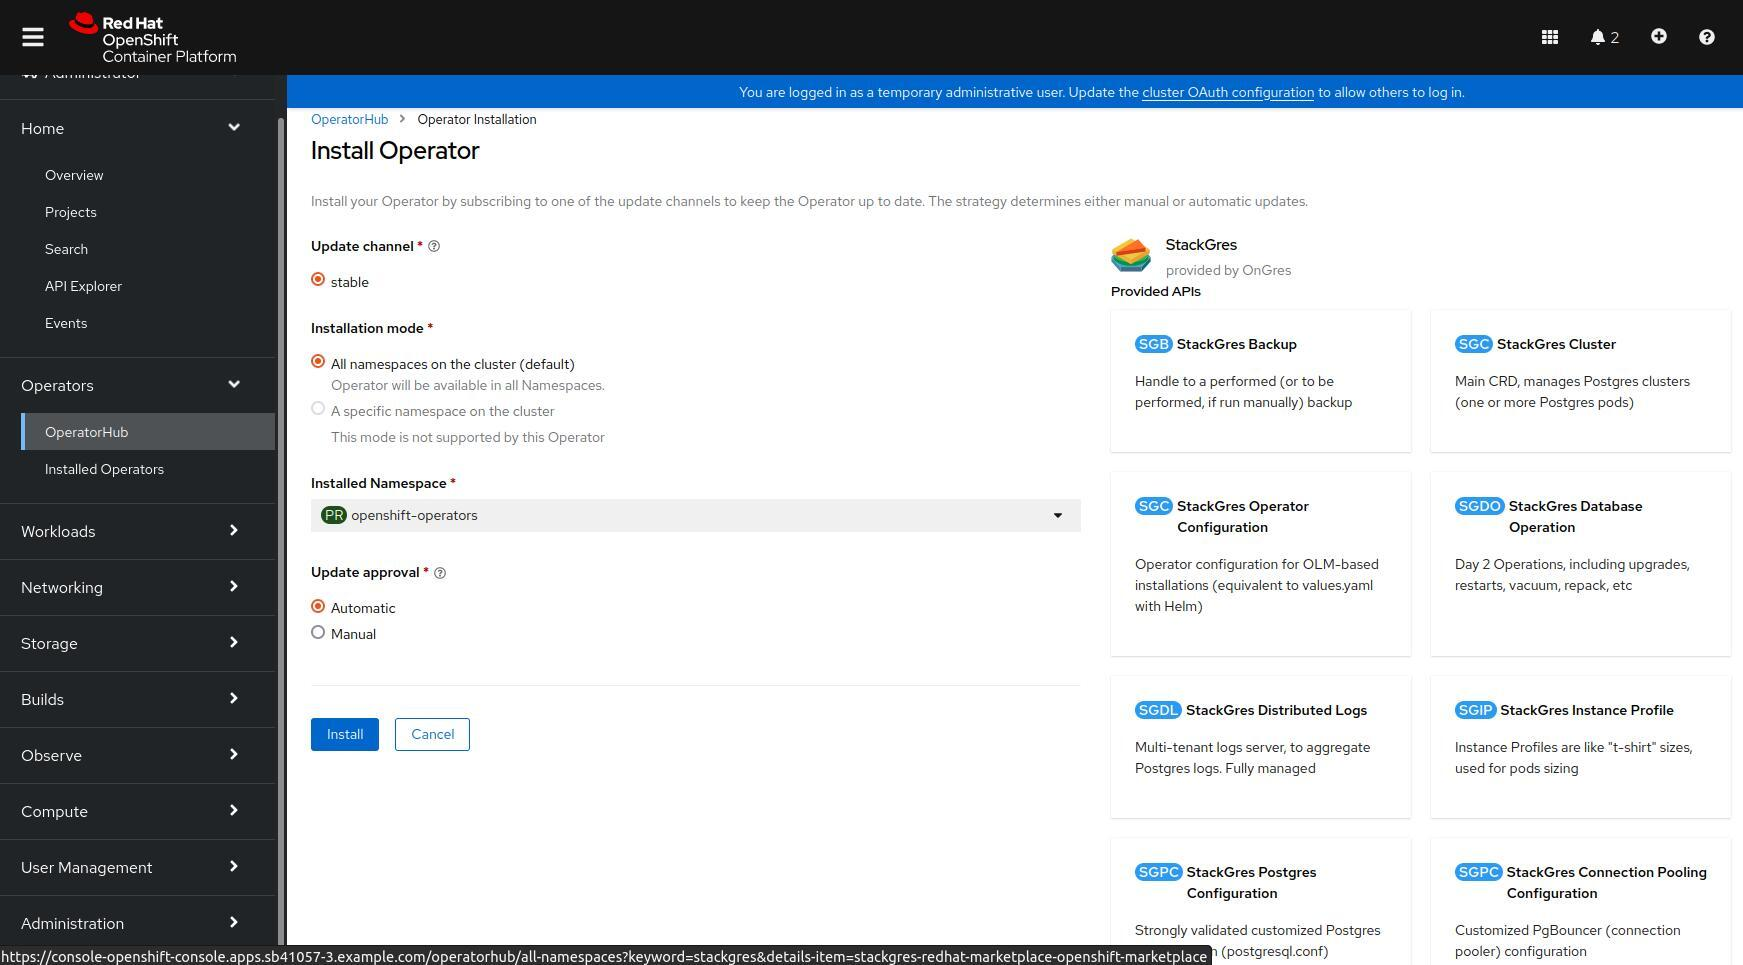
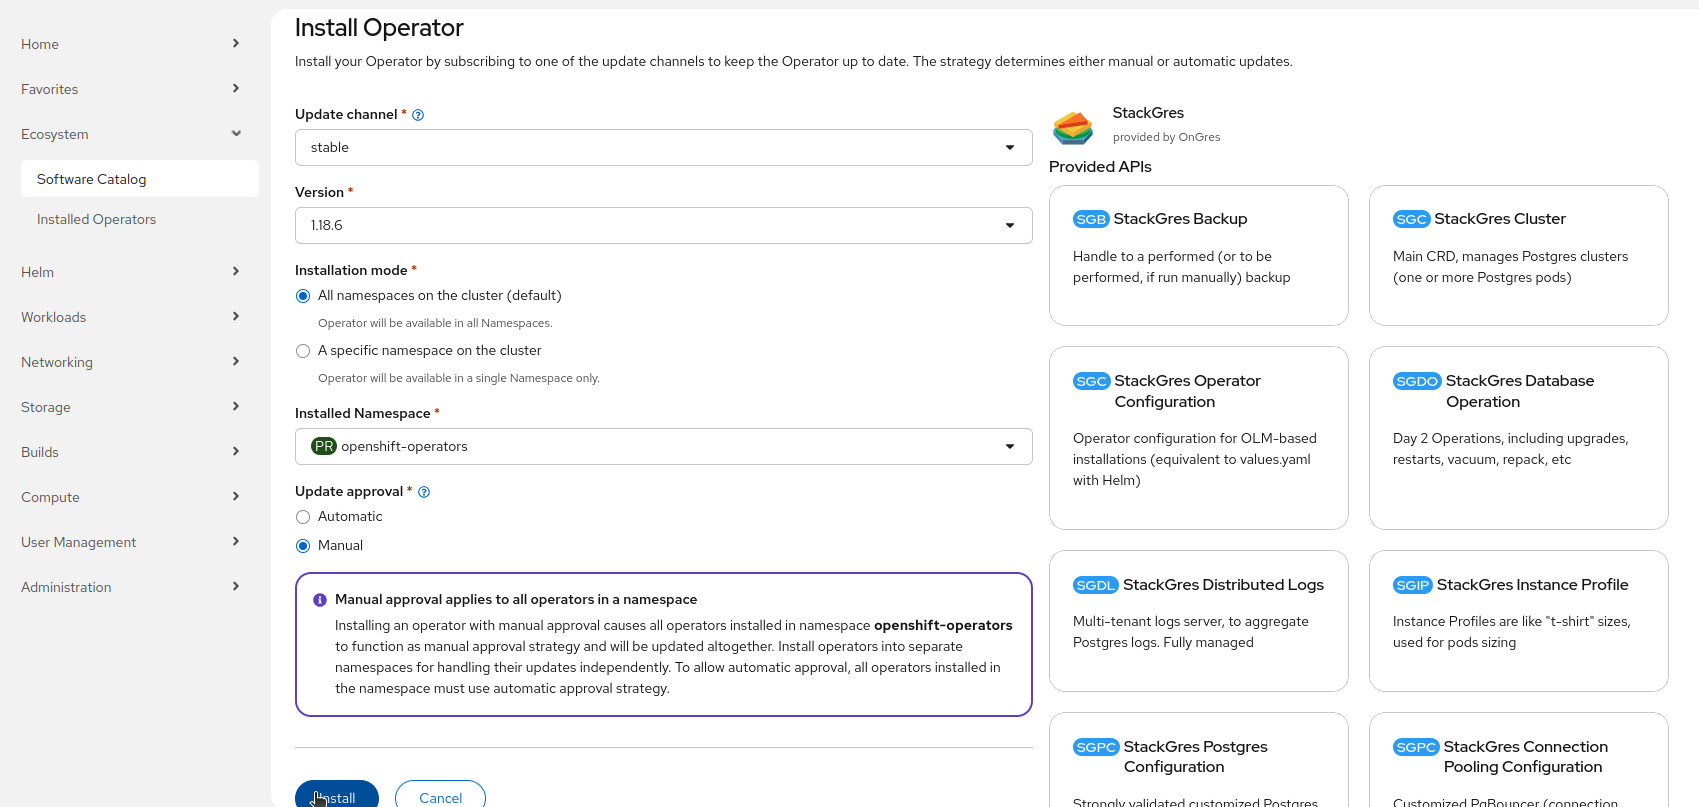
doc: improve OpenShift install, upgrade and uninstall sections

diff --git a/doc/content/en/04-administration-guide/01-installation/03-installation-via-operatorhub/_index.md b/doc/content/en/04-administration-guide/01-installation/03-installation-via-operatorhub/_index.md
@@ -120,7 +120,7 @@ EOF
 > 3. Then use the default setting and click on the "Install" button
      >     ![Search the StackGres Operator from the OperatorHub tab](operator-hub-openshift-install-3.jpeg)
 
-To proceed with the installation you will have to patch the `InstallPlan` that has been created by the OLM operator:
+To proceed with the installation follow the same steps as already explained in the [Installation via OperatorHub](#installation-via-operatorhub) but replacing the namespace with `openshift-operators`:
 
 ```
 kubectl get -n openshift-operators installplan -o name \
@@ -166,4 +166,48 @@ EOF
 ```
 kubectl get service -n openshift-operators stackgres-restapi --template '{{ (index .spec.ports 0).nodePort }}{{ printf "\n" }}'
 ```
+
+#### Installation via OpenShift Web Console
+
+Alternatively you may install the StackGres Operator from the OpenShift Web Console by following these steps:
+
+1. Search the StackGres Operator from the OperatorHub tab
+
+>     ![Search the StackGres Operator from the OperatorHub tab](operator-hub-openshift-install.jpeg)
+
+2. After selecting it click on the "Install" button
+
+>     ![Search the StackGres Operator from the OperatorHub tab](operator-hub-openshift-install-2.jpeg)
+
+3. Then use the All namespaces or specific namespace installation mode (depending on your requirements), set the manual update approval option and click on the "Install" button
+
+>     ![Search the StackGres Operator from the OperatorHub tab](operator-hub-openshift-install-3.jpeg)
+
+4. Accept the installation plan by clicking on the "Approve" button
+
+>     ![Search the StackGres Operator from the OperatorHub tab](operator-hub-openshift-install-4.jpeg)
+
+5. Optionally configure the Subscription by cliking on the "Edit Subscription" button and editing the YAML in the editor that will appear:
+
+>     ![Search the StackGres Operator from the OperatorHub tab](operator-hub-openshift-install-5.jpeg)
+
+## Migrate from global to scoped installation
+
+When installing the operator you may chose to [install it globally or scoped to a set of namespaces](https://olm.operatorframework.io/docs/advanced-tasks/operator-scoping-with-operatorgroups) using OperatorGroup.
+
+In some cases you may need to migrate from a global operator installation to a scoped operator installation. The operation is as easy as uninstalling the global operator and re-installing it as a scoped operator. Before proceeding make sure to create a backup of the Subscription YAML in order to be able to recover the `config` section when re-installing it.
+
+> **IMPORTANT** If the namespace of the scoped operator installation changed you MUST also remove the `SGConfig` resource present in the namespace of the global operator before the uninstallation of the global operator.
+
+### Migrate from global to scoped installation on OpenShift 4.x
+
+Follow the same steps as explained in the [Migrate from global to scoped installation section](#migrate-from-global-to-scoped-installation).
+
+### Migrate from global to scoped installation via OpenShift Web Console
+
+1. From the OpenShift Web Console make sure that during uninstalling the global operator you do NOT check the box for "Delete all operand instances for this operator":
+
+>     ![Do NOT select "Delete all operand instances for this operator"](operator-hub-openshift-migration-global-scoped-uninstall-detail.jpeg)
+
+> **IMPORTANT** If the namespace of the scoped operator installation changed you MUST also remove the `SGConfig` resource present in the namespace of the global operator before the uninstallation of the global operator.
 

diff --git a/doc/content/en/04-administration-guide/16-upgrade/02-upgrade-via-operatorhub/_index.md b/doc/content/en/04-administration-guide/16-upgrade/02-upgrade-via-operatorhub/_index.md
@@ -36,3 +36,19 @@ Upgrading an operator serves two purposes:
 * Operator upgrade: to upgrade to another version of the operator
 
 After upgrading the operator have a look at the [following steps]({{% relref "16-upgrade#following-steps-after-operator-upgrade" %}}).
+
+#### Upgrade via OpenShift Web Console
+
+Alternatively you may install the StackGres Operator from the OpenShift Web Console by following these steps:
+
+1. Search the StackGres Operator from the OperatorHub tab and click on the "upgrade available" link:
+
+>     ![Search the StackGres Operator from the OperatorHub tab](operator-hub-openshift-upgrade.jpeg)
+
+2. Click on the "Preview InstallPlan" button
+
+>     ![Search the StackGres Operator from the OperatorHub tab](operator-hub-openshift-upgrade-2.jpeg)
+
+3. Review the install plan and click on the "Approve" button
+
+>     ![Search the StackGres Operator from the OperatorHub tab](operator-hub-openshift-upgrade-3.jpeg)